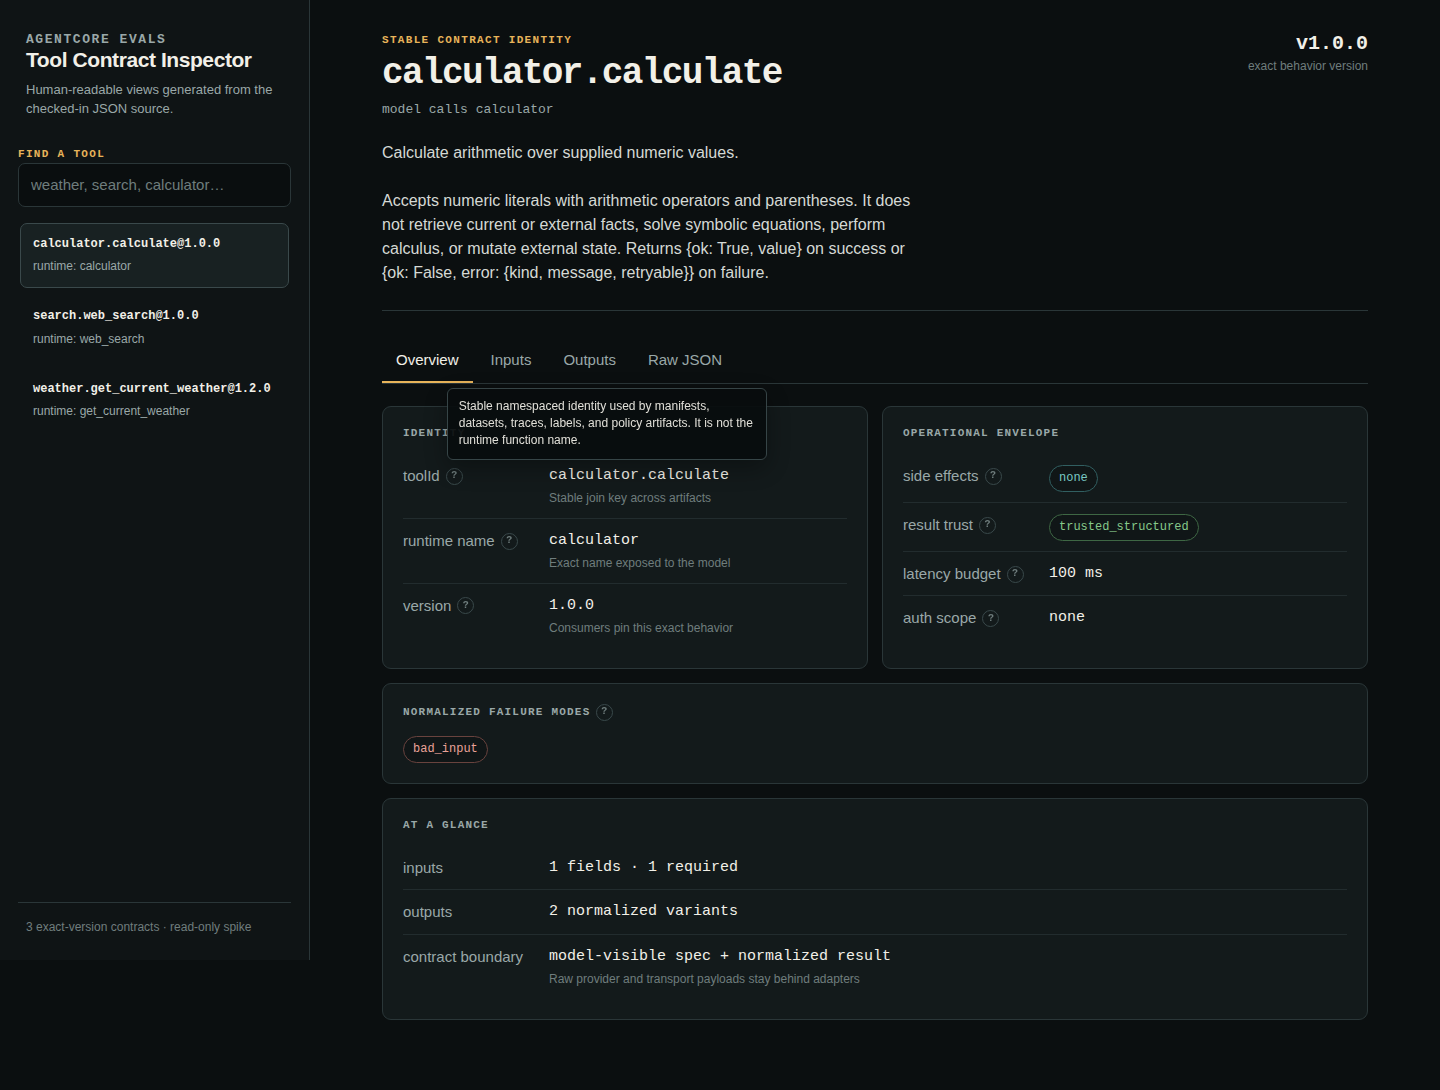
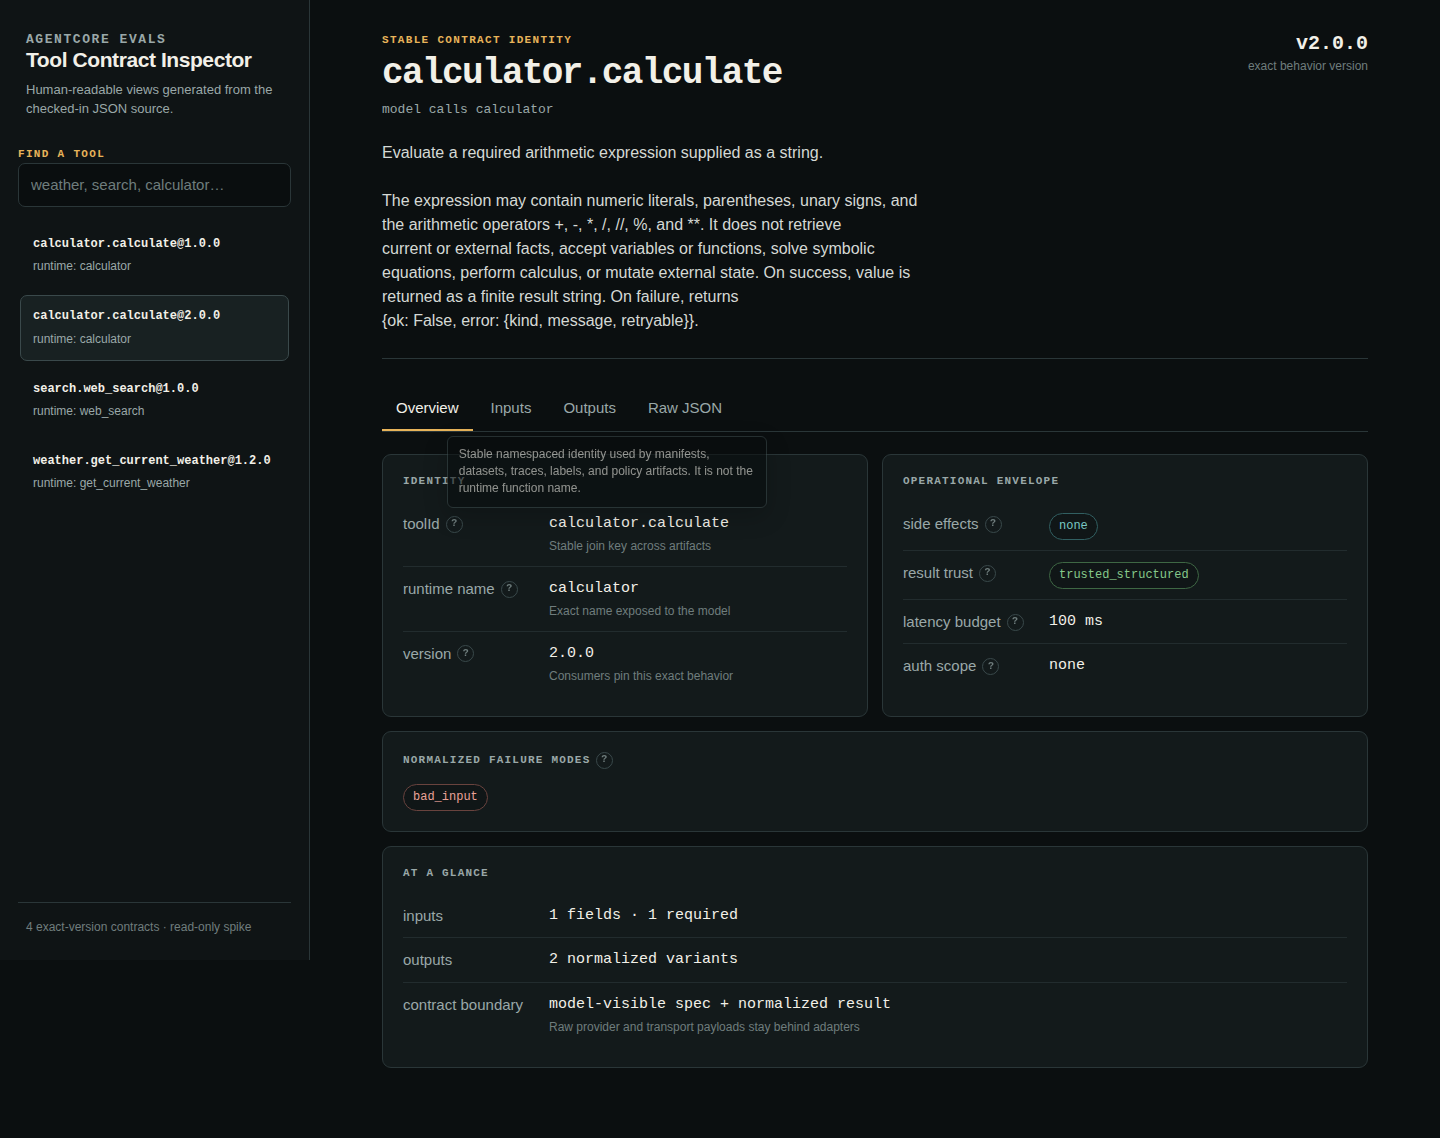
fix: align calculator contract with expression input

diff --git a/spikes/001-contract-inspector/contract-inspector.html b/spikes/001-contract-inspector/contract-inspector.html
@@ -363,7 +363,7 @@
   </div>
 
   <script>
-    const contracts = [{"toolId": "calculator.calculate", "name": "calculator", "version": "1.0.0", "description": "Calculate arithmetic over supplied numeric values.\n\nAccepts numeric literals with arithmetic operators and parentheses. It does\nnot retrieve current or external facts, solve symbolic equations, perform\ncalculus, or mutate external state. Returns {ok: True, value} on success or\n{ok: False, error: {kind, message, retryable}} on failure.", "inputSchema": {"$schema": "https://json-schema.org/draft/2020-12/schema", "properties": {"expression": {"description": "Parameter expression", "type": "string"}}, "required": ["expression"], "type": "object"}, "outputSchema": {"$schema": "https://json-schema.org/draft/2020-12/schema", "oneOf": [{"type": "object", "properties": {"ok": {"const": true}, "value": {"type": "string", "minLength": 1}}, "required": ["ok", "value"], "additionalProperties": false}, {"type": "object", "properties": {"ok": {"const": false}, "error": {"type": "object", "properties": {"kind": {"const": "bad_input"}, "message": {"type": "string", "minLength": 1}, "retryable": {"type": "boolean"}}, "required": ["kind", "message", "retryable"], "additionalProperties": false}}, "required": ["ok", "error"], "additionalProperties": false}]}, "failureModes": ["bad_input"], "sideEffects": "none", "resultTrust": "trusted_structured", "latencyBudgetMs": 100}, {"toolId": "search.web_search", "name": "web_search", "version": "1.0.0", "description": "Search for current public information when no dedicated tool owns the request.\n\nDoes not replace structured current-weather queries or arithmetic. Result\ntitles, URLs, dates, and text come from external sources and are untrusted.\nReturns {ok: True, results} on success or\n{ok: False, error: {kind, message, retryable}} on failure.", "inputSchema": {"$schema": "https://json-schema.org/draft/2020-12/schema", "type": "object", "properties": {"query": {"type": "string", "minLength": 1, "description": "Public-information search query"}, "max_results": {"type": "integer", "minimum": 1, "maximum": 25, "default": 10, "description": "Maximum results to return, from 1 through 25"}}, "required": ["query"]}, "outputSchema": {"$schema": "https://json-schema.org/draft/2020-12/schema", "oneOf": [{"type": "object", "properties": {"ok": {"const": true}, "results": {"type": "array", "items": {"type": "object", "properties": {"publishedDate": {"type": "string", "minLength": 1}, "text": {"type": "string", "minLength": 1}, "title": {"type": "string", "minLength": 1}, "url": {"type": "string", "format": "uri"}}, "required": ["publishedDate", "text", "title", "url"], "additionalProperties": false}}}, "required": ["ok", "results"], "additionalProperties": false}, {"type": "object", "properties": {"ok": {"const": false}, "error": {"type": "object", "properties": {"kind": {"enum": ["bad_input", "upstream_5xx"]}, "message": {"type": "string", "minLength": 1}, "retryable": {"type": "boolean"}}, "required": ["kind", "message", "retryable"], "additionalProperties": false}}, "required": ["ok", "error"], "additionalProperties": false}]}, "failureModes": ["bad_input", "upstream_5xx"], "sideEffects": "read_external", "resultTrust": "untrusted_external", "authScope": "gateway:web-search:invoke", "latencyBudgetMs": 5000}, {"toolId": "weather.get_current_weather", "name": "get_current_weather", "version": "1.2.0", "description": "Get current weather for a city. Not forecasts, history, or climate averages.\n\nunits must be 'metric', 'imperial', or 'standard'. Returns {ok, city, temp,\nunits, conditions} on success or {ok: False, error: {kind, message,\nretryable}} on failure.", "inputSchema": {"$schema": "https://json-schema.org/draft/2020-12/schema", "properties": {"city": {"description": "Parameter city", "type": "string"}, "units": {"default": "metric", "description": "Parameter units", "enum": ["metric", "imperial", "standard"], "type": "string"}}, "required": ["city"], "type": "object"}, "outputSchema": {"$schema": "https://json-schema.org/draft/2020-12/schema", "oneOf": [{"type": "object", "properties": {"ok": {"const": true}, "city": {"type": "string", "minLength": 1}, "temp": {"type": "number"}, "units": {"enum": ["metric", "imperial", "standard"]}, "conditions": {"type": "string", "minLength": 1}}, "required": ["ok", "city", "temp", "units", "conditions"], "additionalProperties": false}, {"type": "object", "properties": {"ok": {"const": false}, "error": {"type": "object", "properties": {"kind": {"enum": ["bad_input", "auth", "upstream_4xx", "upstream_5xx", "timeout", "network"]}, "message": {"type": "string", "minLength": 1}, "retryable": {"type": "boolean"}}, "required": ["kind", "message", "retryable"], "additionalProperties": false}}, "required": ["ok", "error"], "additionalProperties": false}]}, "failureModes": ["bad_input", "auth", "upstream_4xx", "upstream_5xx", "timeout", "network"], "sideEffects": "read_external", "resultTrust": "trusted_structured", "authScope": "owm:read", "latencyBudgetMs": 5000}];
+    const contracts = [{"toolId": "calculator.calculate", "name": "calculator", "version": "1.0.0", "description": "Calculate arithmetic over supplied numeric values.\n\nAccepts numeric literals with arithmetic operators and parentheses. It does\nnot retrieve current or external facts, solve symbolic equations, perform\ncalculus, or mutate external state. Returns {ok: True, value} on success or\n{ok: False, error: {kind, message, retryable}} on failure.", "inputSchema": {"$schema": "https://json-schema.org/draft/2020-12/schema", "properties": {"expression": {"description": "Parameter expression", "type": "string"}}, "required": ["expression"], "type": "object"}, "outputSchema": {"$schema": "https://json-schema.org/draft/2020-12/schema", "oneOf": [{"type": "object", "properties": {"ok": {"const": true}, "value": {"type": "string", "minLength": 1}}, "required": ["ok", "value"], "additionalProperties": false}, {"type": "object", "properties": {"ok": {"const": false}, "error": {"type": "object", "properties": {"kind": {"const": "bad_input"}, "message": {"type": "string", "minLength": 1}, "retryable": {"type": "boolean"}}, "required": ["kind", "message", "retryable"], "additionalProperties": false}}, "required": ["ok", "error"], "additionalProperties": false}]}, "failureModes": ["bad_input"], "sideEffects": "none", "resultTrust": "trusted_structured", "latencyBudgetMs": 100}, {"toolId": "calculator.calculate", "name": "calculator", "version": "2.0.0", "description": "Evaluate a required arithmetic expression supplied as a string.\n\nThe expression may contain numeric literals, parentheses, unary signs, and\nthe arithmetic operators +, -, *, /, //, %, and **. It does not retrieve\ncurrent or external facts, accept variables or functions, solve symbolic\nequations, perform calculus, or mutate external state. On success, value is\nreturned as a finite result string. On failure, returns\n{ok: False, error: {kind, message, retryable}}.", "inputSchema": {"$schema": "https://json-schema.org/draft/2020-12/schema", "properties": {"expression": {"description": "Required arithmetic expression string containing only supported numeric arithmetic syntax.", "type": "string"}}, "required": ["expression"], "type": "object"}, "outputSchema": {"$schema": "https://json-schema.org/draft/2020-12/schema", "oneOf": [{"type": "object", "properties": {"ok": {"const": true}, "value": {"type": "string", "minLength": 1}}, "required": ["ok", "value"], "additionalProperties": false}, {"type": "object", "properties": {"ok": {"const": false}, "error": {"type": "object", "properties": {"kind": {"const": "bad_input"}, "message": {"type": "string", "minLength": 1}, "retryable": {"type": "boolean"}}, "required": ["kind", "message", "retryable"], "additionalProperties": false}}, "required": ["ok", "error"], "additionalProperties": false}]}, "failureModes": ["bad_input"], "sideEffects": "none", "resultTrust": "trusted_structured", "latencyBudgetMs": 100}, {"toolId": "search.web_search", "name": "web_search", "version": "1.0.0", "description": "Search for current public information when no dedicated tool owns the request.\n\nDoes not replace structured current-weather queries or arithmetic. Result\ntitles, URLs, dates, and text come from external sources and are untrusted.\nReturns {ok: True, results} on success or\n{ok: False, error: {kind, message, retryable}} on failure.", "inputSchema": {"$schema": "https://json-schema.org/draft/2020-12/schema", "type": "object", "properties": {"query": {"type": "string", "minLength": 1, "description": "Public-information search query"}, "max_results": {"type": "integer", "minimum": 1, "maximum": 25, "default": 10, "description": "Maximum results to return, from 1 through 25"}}, "required": ["query"]}, "outputSchema": {"$schema": "https://json-schema.org/draft/2020-12/schema", "oneOf": [{"type": "object", "properties": {"ok": {"const": true}, "results": {"type": "array", "items": {"type": "object", "properties": {"publishedDate": {"type": "string", "minLength": 1}, "text": {"type": "string", "minLength": 1}, "title": {"type": "string", "minLength": 1}, "url": {"type": "string", "format": "uri"}}, "required": ["publishedDate", "text", "title", "url"], "additionalProperties": false}}}, "required": ["ok", "results"], "additionalProperties": false}, {"type": "object", "properties": {"ok": {"const": false}, "error": {"type": "object", "properties": {"kind": {"enum": ["bad_input", "upstream_5xx"]}, "message": {"type": "string", "minLength": 1}, "retryable": {"type": "boolean"}}, "required": ["kind", "message", "retryable"], "additionalProperties": false}}, "required": ["ok", "error"], "additionalProperties": false}]}, "failureModes": ["bad_input", "upstream_5xx"], "sideEffects": "read_external", "resultTrust": "untrusted_external", "authScope": "gateway:web-search:invoke", "latencyBudgetMs": 5000}, {"toolId": "weather.get_current_weather", "name": "get_current_weather", "version": "1.2.0", "description": "Get current weather for a city. Not forecasts, history, or climate averages.\n\nunits must be 'metric', 'imperial', or 'standard'. Returns {ok, city, temp,\nunits, conditions} on success or {ok: False, error: {kind, message,\nretryable}} on failure.", "inputSchema": {"$schema": "https://json-schema.org/draft/2020-12/schema", "properties": {"city": {"description": "Parameter city", "type": "string"}, "units": {"default": "metric", "description": "Parameter units", "enum": ["metric", "imperial", "standard"], "type": "string"}}, "required": ["city"], "type": "object"}, "outputSchema": {"$schema": "https://json-schema.org/draft/2020-12/schema", "oneOf": [{"type": "object", "properties": {"ok": {"const": true}, "city": {"type": "string", "minLength": 1}, "temp": {"type": "number"}, "units": {"enum": ["metric", "imperial", "standard"]}, "conditions": {"type": "string", "minLength": 1}}, "required": ["ok", "city", "temp", "units", "conditions"], "additionalProperties": false}, {"type": "object", "properties": {"ok": {"const": false}, "error": {"type": "object", "properties": {"kind": {"enum": ["bad_input", "auth", "upstream_4xx", "upstream_5xx", "timeout", "network"]}, "message": {"type": "string", "minLength": 1}, "retryable": {"type": "boolean"}}, "required": ["kind", "message", "retryable"], "additionalProperties": false}}, "required": ["ok", "error"], "additionalProperties": false}]}, "failureModes": ["bad_input", "auth", "upstream_4xx", "upstream_5xx", "timeout", "network"], "sideEffects": "read_external", "resultTrust": "trusted_structured", "authScope": "owm:read", "latencyBudgetMs": 5000}];
     const fieldDescriptions = {
       toolId: "Stable namespaced identity used by manifests, datasets, traces, labels, and policy artifacts. It is not the runtime function name.",
       name: "Exact final name exposed to the model after decorators, wrappers, and Gateway transformations.",

diff --git a/src/tools/calculator.py b/src/tools/calculator.py
@@ -102,11 +102,16 @@ def calculate_expression(
 
 @tool
 def calculator(expression: str) -> dict[str, Any]:
-    """Calculate arithmetic over supplied numeric values.
+    """Evaluate a required arithmetic expression supplied as a string.
 
-    Accepts numeric literals with arithmetic operators and parentheses. It does
-    not retrieve current or external facts, solve symbolic equations, perform
-    calculus, or mutate external state. Returns {ok: True, value} on success or
-    {ok: False, error: {kind, message, retryable}} on failure.
+    The expression may contain numeric literals, parentheses, unary signs, and
+    the arithmetic operators +, -, *, /, //, %, and **. It does not retrieve
+    current or external facts, accept variables or functions, solve symbolic
+    equations, perform calculus, or mutate external state. On success, value is
+    returned as a finite result string. On failure, returns
+    {ok: False, error: {kind, message, retryable}}.
+
+    Args:
+        expression: Required arithmetic expression string containing only supported numeric arithmetic syntax.
     """
     return calculate_expression(expression)

diff --git a/tests/test_calculator_tool.py b/tests/test_calculator_tool.py
@@ -24,13 +24,23 @@ class CalculatorToolTests(unittest.TestCase):
         normalized_description = " ".join(spec["description"].split()).lower()
 
         self.assertEqual("calculator", spec["name"])
-        self.assertIn("arithmetic over supplied numeric values", spec["description"])
+        self.assertIn("required arithmetic expression supplied as a string", normalized_description)
+        self.assertIn("finite result string", normalized_description)
+        self.assertNotIn("supplied numeric values", normalized_description)
         self.assertIn("does not retrieve", normalized_description)
         self.assertEqual(
             {"expression"},
             set(spec["inputSchema"]["json"]["properties"]),
         )
         self.assertEqual(["expression"], spec["inputSchema"]["json"]["required"])
+
+    def test_model_visible_expression_description_matches_string_input(self) -> None:
+        expression_schema = calculator.tool_spec["inputSchema"]["json"]["properties"]["expression"]
+
+        self.assertEqual(
+            "Required arithmetic expression string containing only supported numeric arithmetic syntax.",
+            expression_schema["description"],
+        )
 
     def test_success_is_normalized(self) -> None:
         backend = FakeCalculatorBackend(

diff --git a/tests/test_capability_manifest_schema.py b/tests/test_capability_manifest_schema.py
@@ -61,6 +61,12 @@ class CapabilityManifestSchemaTests(unittest.TestCase):
 
                 self.assertEqual([], [error.message for error in errors])
 
+    def test_weather_portfolio_pins_current_calculator_contract(self) -> None:
+        manifest = self._load_fixture("valid", "weather-portfolio.json")
+
+        self.assertEqual("2.0.0", manifest["version"])
+        self.assertEqual("2.0.0", manifest["toolGrants"]["calculator.calculate"])
+
     def test_all_invalid_manifest_fixtures_are_rejected(self) -> None:
         schema = json.loads(CAPABILITY_MANIFEST_SCHEMA_PATH.read_text(encoding="utf-8"))
         fixture_paths = sorted((CAPABILITY_MANIFEST_FIXTURES_PATH / "invalid").glob("*.json"))

diff --git a/tests/test_tool_contract_instances.py b/tests/test_tool_contract_instances.py
@@ -23,7 +23,7 @@ CONTRACT_PATHS = {
     / "contracts"
     / "tools"
     / "calculator.calculate"
-    / "1.0.0.json",
+    / "2.0.0.json",
     "search.web_search": REPO_ROOT
     / "contracts"
     / "tools"

diff --git a/docs/weeks/week-06-dataset-validation.md b/docs/weeks/week-06-dataset-validation.md
@@ -30,10 +30,10 @@ The corpus has a dataset-level manifest before it has rows. It pins the exact We
   "version": "1.0.0",
   "schemaVersion": "1.0.0",
   "taxonomyVersion": "1.0.0",
-  "agentManifest": {"manifestId": "agents.weather", "version": "1.0.0"},
+  "agentManifest": {"manifestId": "agents.weather", "version": "2.0.0"},
   "toolContracts": [
     {"toolId": "weather.get_current_weather", "version": "1.2.0"},
-    {"toolId": "calculator.calculate", "version": "1.0.0"},
+    {"toolId": "calculator.calculate", "version": "2.0.0"},
     {"toolId": "search.web_search", "version": "1.0.0"}
   ]
 }

diff --git a/spikes/001-contract-inspector/README.md b/spikes/001-contract-inspector/README.md
@@ -49,7 +49,7 @@ The generated file is self-contained and can be opened directly; it does not fet
 ## Verification
 
 - Generator compiled and executed successfully.
-- Generated artifact contains all three exact-version contracts.
+- Generated artifact contains all four exact-version contract artifacts across three tool identities.
 - Chromium exercised tool selection, natural-language search, input/output/raw tabs, hash routing, and hover/focus field descriptions with no runtime errors.
 - Chromium rendered at 1440×960 with no console errors or document-level horizontal overflow.
 - A desktop screenshot with a representative tooltip open is saved beside the artifact.